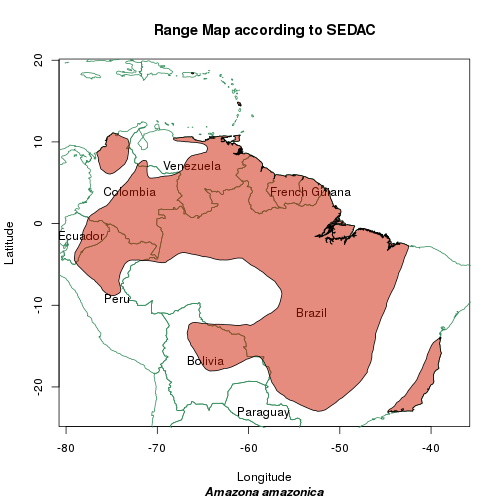
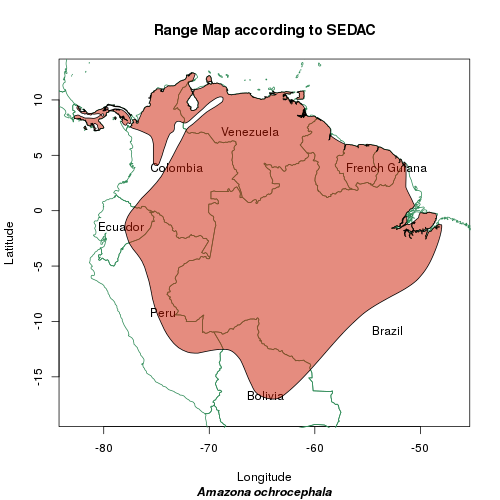
updated codes for single species and selected alpha value

diff --git a/README.md b/README.md
@@ -40,7 +40,7 @@ Output image files are kept in folder 'img'.
 
 _Software and packages_
 
-I used R version 3.3.1 and packages raster (version 2.5-8), sp (version 1.2-3), rgbif (version 0.9.4), alphahull (version 2.1), spdep (version 0.6-6), Matrix (version 1.2-6), RColorBrewer (version 1.1-2).
+I used R (version 3.3.1) and packages raster (version 2.5-8), sp (version 1.2-3), rgbif (version 0.9.4), alphahull (version 2.1), spdep (version 0.6-6), Matrix (version 1.2-6), plotrix (version 3.6-3), RColorBrewer (version 1.1-2).
 
 * Douglas Bates and Martin Maechler (2016). Matrix: Sparse and Dense
   Matrix Classes and Methods. R package version 1.2-6.
@@ -62,6 +62,9 @@ I used R version 3.3.1 and packages raster (version 2.5-8), sp (version 1.2-3), 
 * Robert J. Hijmans (2016). raster: Geographic Data Analysis and
   Modeling. R package version 2.5-8.
   https://CRAN.R-project.org/package=raster
+
+* Lemon, J. (2006) Plotrix: a package in the red light district of R.
+  R-News, 6(4): 8-12.
 
 * Erich Neuwirth (2014). RColorBrewer: ColorBrewer Palettes. R package
   version 1.1-2. https://CRAN.R-project.org/package=RColorBrewer
